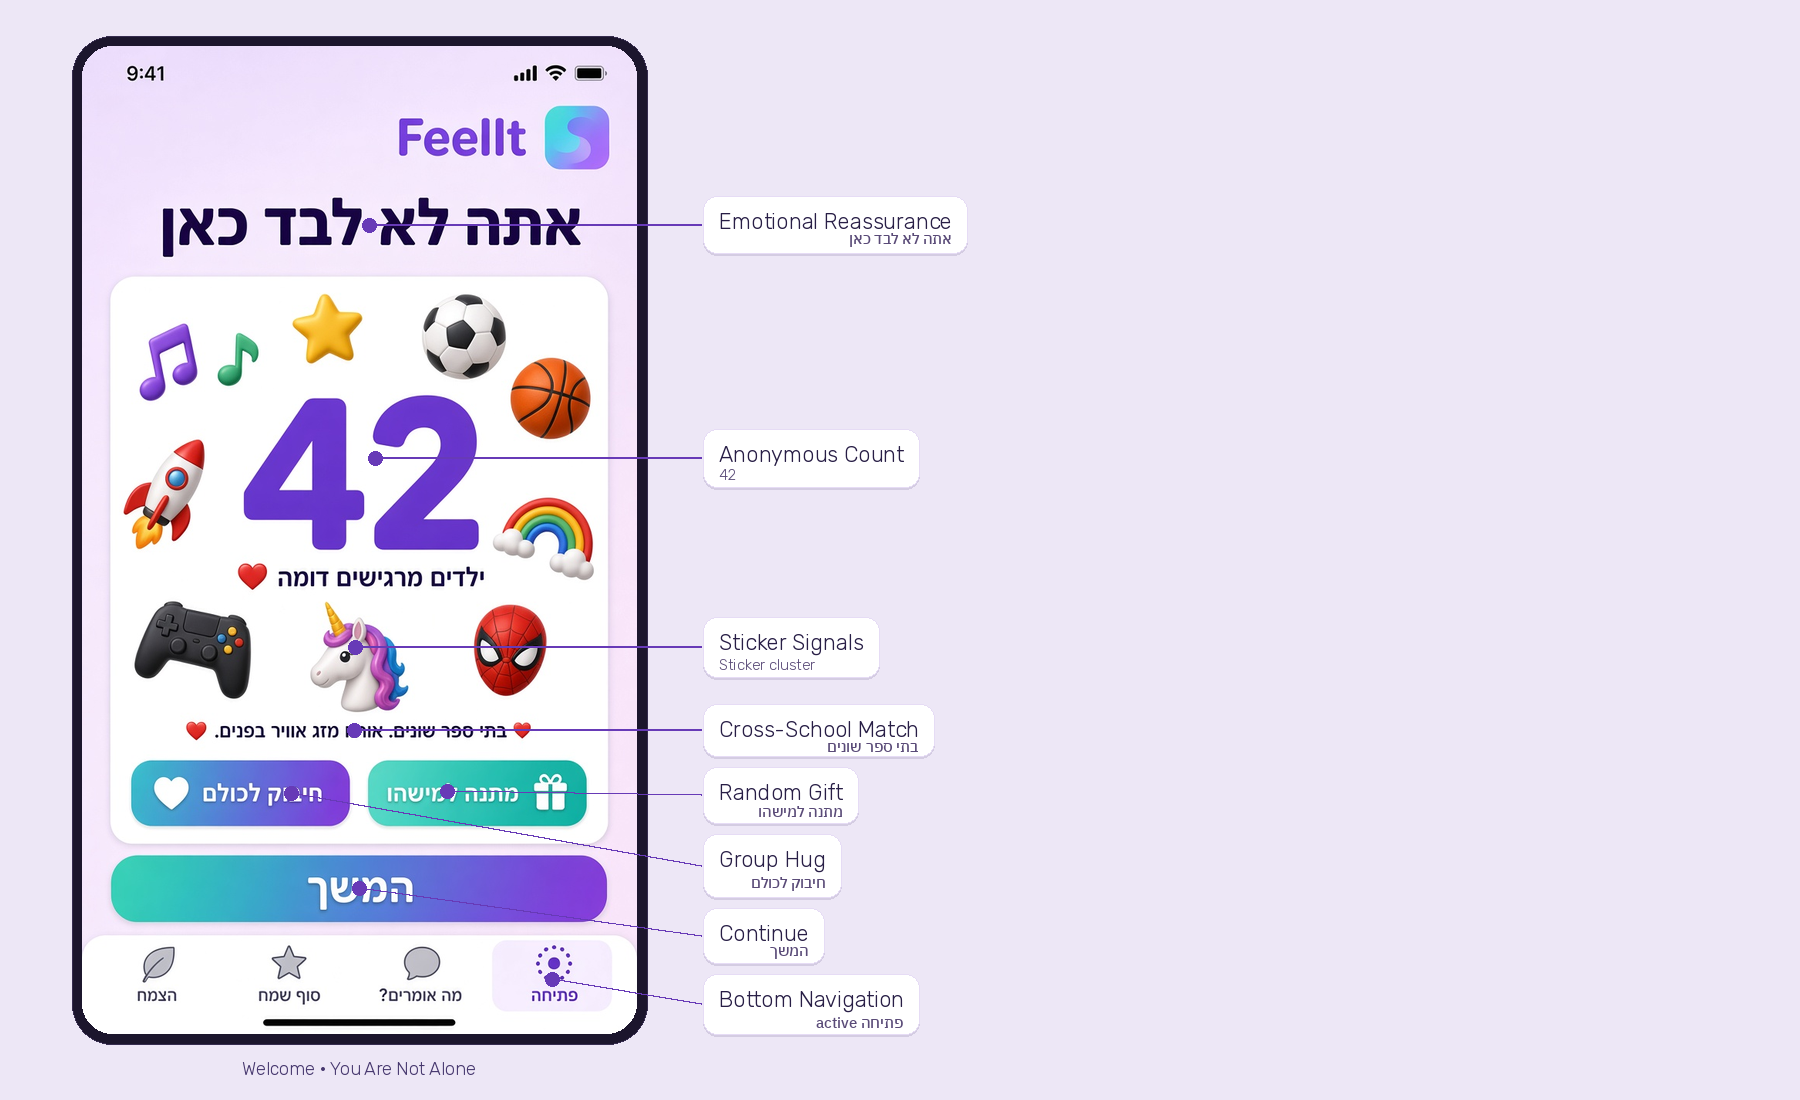
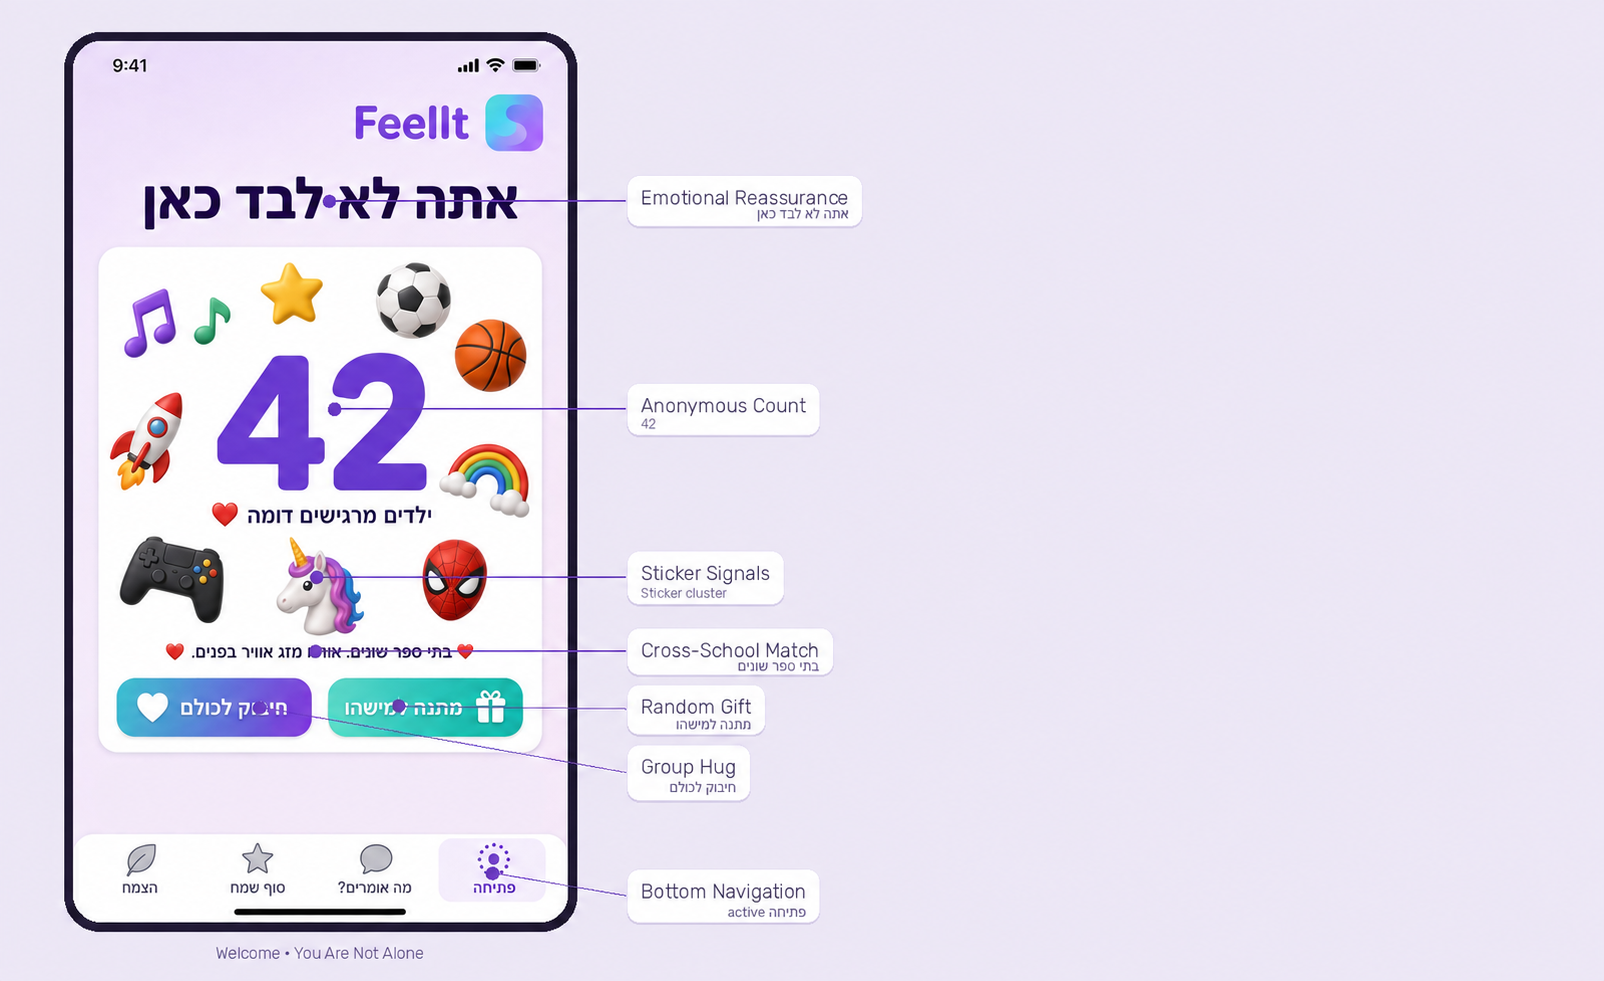
fix: end daily check-in on the not-alone screen

diff --git a/OPEN-QUESTIONS.md b/OPEN-QUESTIONS.md
@@ -8,8 +8,7 @@
 
 ## ניווט וארכיטקטורת מידע
 
-- **נחיתה אחרי פתיחה:** איזה מסך המשתמש רואה אחרי סיום מסך הפתיחה?
-- **ניווט מלא באפליקציה:** איך משתמשים עוברים בין מסכים? מה מודל הניווט העיקרי?
+- **סיום הפתיחה — הוכרע:** הצ'ק-אין מסתיים ב״אתה לא לבד״, ללא כפתור ״המשך״ או מעבר אוטומטי. מעבר לחלק אחר באפליקציה נעשה דרך סרגל הניווט התחתון.
 - **ארכיטקטורת מידע:** איך פיצ'רים מאורגנים ומגלים אותם?
 
 ---
@@ -26,7 +25,7 @@
 - **גודל קבוצה מינימלי:** מה המספר המינימלי של ילדים דומים לפני הצגת ספירה? (רצפת פרטיות למניעת זיהוי קבוצות קטנות)
 - **היקף גיאוגרפי:** אותה עיר? אותו אזור? גלובלי?
 
-### שלב 3 — הפיצו אהבה
+### פעולות הנתינה — הפיצו אהבה
 - **כלכלת חיבוקים:** איך משתמשים צוברים חיבוקים? יתרת התחלה? קצב צבירה?
 - **הוצאת חיבוקים:** כששולחים חיבוקים לקבוצה עם רגשות דומים, כמה חיבוקים מוצאים?
 - **אייקונים ייחודיים (דמויי NFT):** איך אייקונים ייחודיים נוצרים? רק מפירות הצמח שלי, או ממקורות אחרים?
@@ -80,7 +79,7 @@
 - **ייחודיות פירות:** איך פירות נעשים ייחודיים באפליקציה כולה? נוצרים למשתמש? מאגר מוגבל עם הקצאת כל הקודם זוכה?
 - **קטלוג פירות:** אילו סוגי פירות קיימים? כמה משתמש יכול לגדל?
 - **חוויית גודלו לעומת התקבלו:** איך שני מלאי הפירות מוצגים? האם משתמשים יכולים להבדיל בין פירות שגידלו לפירות שקיבלו?
-- **משטחי מתן מתנות:** איפה משתמשים יכולים להעניק את הפירות שלהם? רק בסוף שמח? גם בפתיחה שלב 3? התאמה אקראית?
+- **משטחי מתן מתנות:** בנוסף לפעולת המתנה האקראית במסך ״אתה לא לבד״, באילו מסכים נוספים אפשר להעניק פירות? גם בסוף שמח?
 - **חוויית מקבל פרי:** איך המקבל רואה/מקבל פרי שהוענק? התראה? על הצמח שלו?
 - **קטלוג מדבקות פרופיל:** אילו מדבקות זמינות? קטגוריות (עיר, דמות, תחביב)?
 - **מיתון מדבקות:** איך מדבקות מותאמות אישית או שנבחרו על ידי המשתמש ממותנות?
@@ -90,4 +89,4 @@
 
 ## מוקאפים שעדיין צריך לעצב
 
-- **נחיתה אחרי פתיחה** — מסך הבית אחרי מסך הפתיחה (עיצוב ממתין להחלטה על ניווט)
+- **פירוט פעולות הנתינה** — כיצד משתלב מוקאפ ״הפיצו אהבה״ בפעולות הזמינות מ״אתה לא לבד״, ללא שלב נוסף חובה בצ'ק-אין?

diff --git a/README.md b/README.md
@@ -38,7 +38,7 @@
 
 ### תהליך פתיחה · פתיחה
 
-תהליך צ'ק-אין יומי (3 שלבים). ללא טקסט חופשי — רק קלטים מובנים שבטוחים מעצם התכנון.
+תהליך צ'ק-אין יומי בשני שלבים: ״איך אני מרגיש״ ולאחריו ״אתה לא לבד״. ללא טקסט חופשי — רק קלטים מובנים שבטוחים מעצם התכנון.
 
 #### שלב 1 — איך אני מרגיש
 
@@ -66,11 +66,15 @@
 
 שתי הפעולות אנונימיות; המקבלים לעולם לא יודעים מי שלח.
 
+זהו מסך הסיום של הצ'ק-אין. אין בו כפתור ״המשך״ ואין מעבר אוטומטי למסך נוסף. אפשר להשתמש בפעולות האנונימיות או לעבור לחלק אחר באפליקציה דרך סרגל הניווט התחתון.
+
 ![שלב 2 בפתיחה — ספירת עמיתים אנונימית](mocks/annotated/welcome-step2-annotated.png)
 
 ---
 
-#### שלב 3 — הפיצו אהבה
+#### הפיצו אהבה — פירוט פעולות הנתינה
+
+המוקאפ הבא מפרט את פעולות הנתינה הזמינות מתוך ״אתה לא לבד״; הוא אינו שלב שלישי חובה בצ'ק-אין.
 
 שני מטבעות מאפשרים לילדים לשלוח חמימות בלי הודעות ישירות או קשר ישיר:
 
@@ -79,7 +83,7 @@
 
 המקבלים לומדים רק שמישהו דאג — לא מי שלח.
 
-![שלב 3 בפתיחה — הפיצו אהבה](mocks/annotated/welcome-step3-annotated.png)
+![פירוט פעולות הנתינה — הפיצו אהבה](mocks/annotated/welcome-step3-annotated.png)
 
 ---
 
@@ -137,7 +141,7 @@
 |-----|------|
 | פתיחה שלב 1 | `mocks/welcome-screen.png` |
 | פתיחה שלב 2 | `mocks/welcome-not-alone.png` |
-| פתיחה שלב 3 | `mocks/welcome-gift.png` |
+| פירוט פעולות הנתינה | `mocks/welcome-gift.png` |
 | מה אומרים? | `mocks/what-do-they-say.png` |
 | סוף שמח | `mocks/happy-ending.png` |
 | הצמח שלי | `mocks/my-plant.png` |
